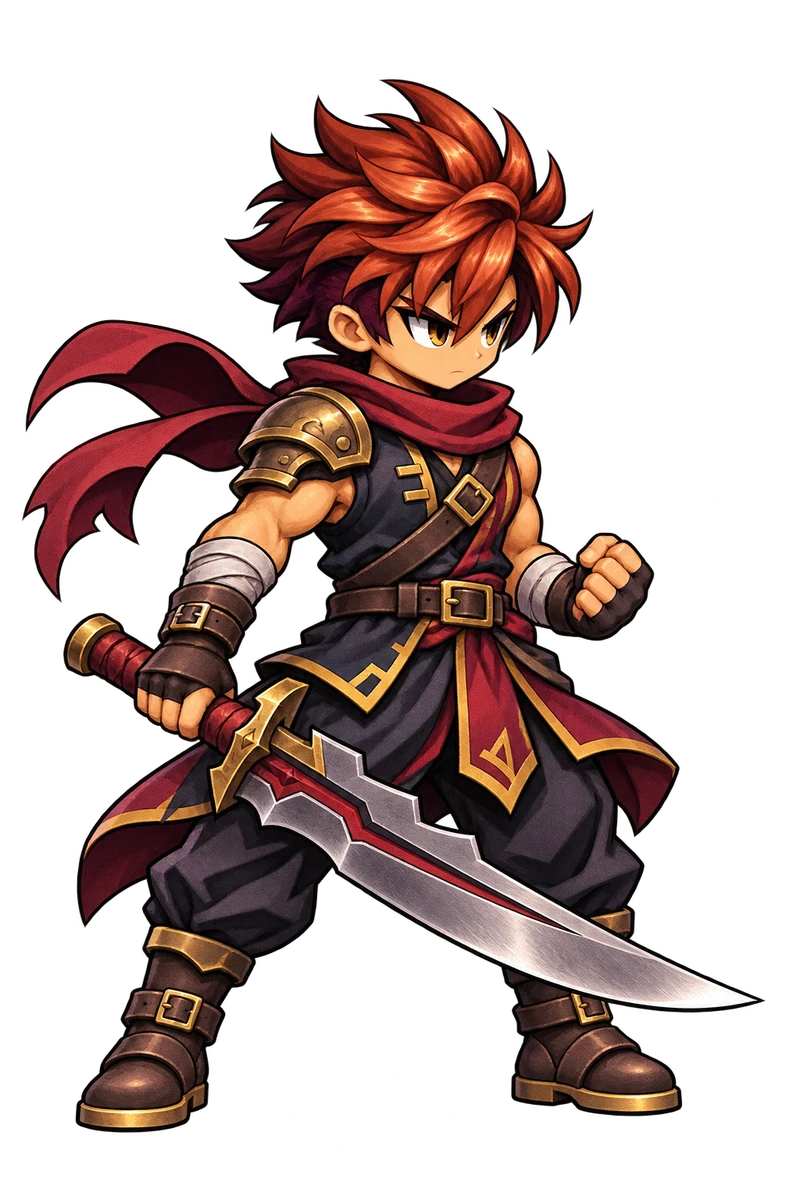
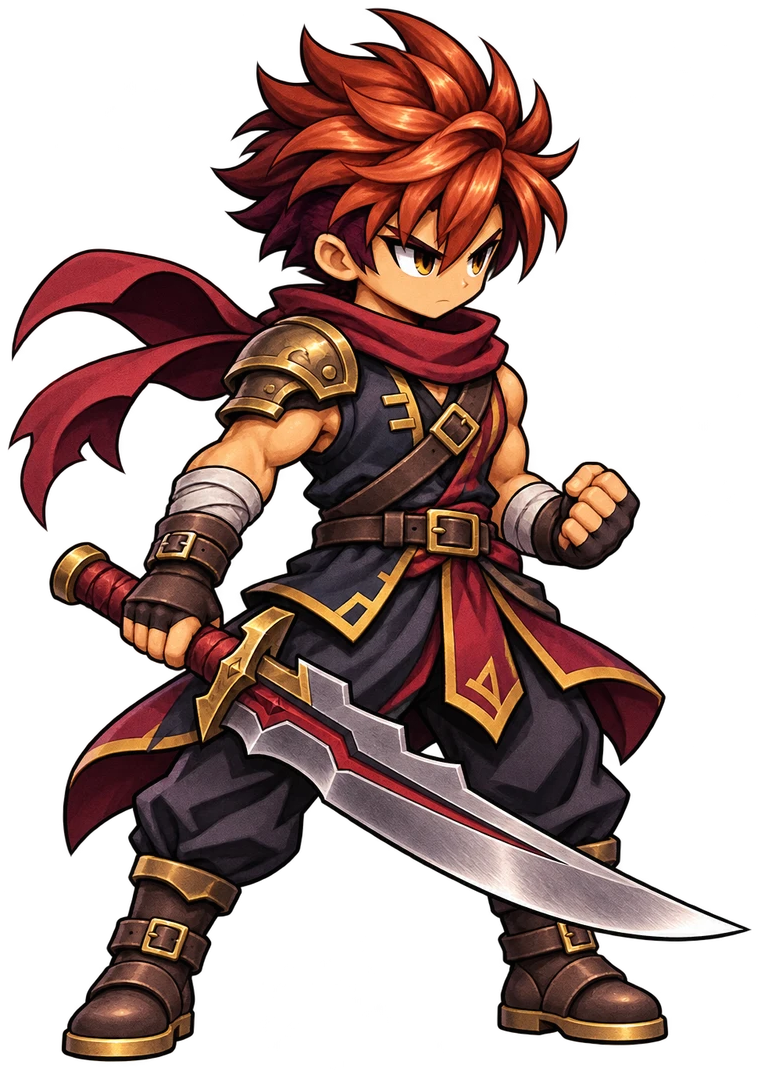
Ronin Carmesim: nomes originais e retrato maior; menus mostram 3 habilidades + ultimate
Claude-Session: https://claude.ai/code/session_016A3jQ5CZAnkWBa3KCHDBFj

diff --git a/js/combate_v3.js b/js/combate_v3.js
@@ -14,7 +14,7 @@ window.COMBAT_V3=!LEGACY;
 if(LEGACY)return;
 document.body.classList.add('v3');
 // reforço: o mesmo CSS também entra por aqui, para o layout nunca depender de um arquivo .css antigo em cache
-{const st=document.createElement('style');st.id='v3css';st.textContent="/* Combate v3: dash no lugar do soco, habilidades em meia-lua ao redor dele */\nbody.v3 #battle{--atk:72px;--skill-size:50px;--edge:72px}\nbody.v3 #battle .action-group #dodge,body.v3 #battle .action-group #defend,body.v3 #battle .control-tip{display:none!important}\nbody.v3 #battle .control-center{right:calc(var(--edge) + var(--atk)/2)!important;bottom:calc(max(12px,env(safe-area-inset-bottom)) + var(--atk)/2)!important;width:0!important;height:0!important;padding:0!important;background:none!important;border:0!important}\nbody.v3 #battle .equipped{display:block!important;position:absolute!important;left:0;top:0;width:0;height:0}\nbody.v3 #battle .equipped .skill{position:absolute!important;left:calc(var(--dx,0px) - var(--skill-size)/2)!important;top:calc(var(--dy,0px) - var(--skill-size)/2)!important;margin:0!important}\nbody.v3 #battle .equipped .skill[data-arc=\"3\"]{width:56px!important;height:56px!important;left:calc(var(--dx,0px) - 28px)!important;top:calc(var(--dy,0px) - 28px)!important;box-shadow:0 0 12px var(--c,#e8c787)}\nbody.v3 #battle .equipped .skill.v3-hidden{display:none!important}\nbody.v3 #battle .equipped .skill.v3-swap::after{content:\"TROCAR\";position:absolute;inset:auto 0 -2px;font-size:8px;font-weight:800;text-align:center;color:#fff;text-shadow:0 1px 3px #000}\nbody.v3 #battle .action-group #attack.v3-dash{position:relative;overflow:hidden}\nbody.v3 #battle #attack.v3-dash .v3-cd{position:absolute;inset:0;display:flex;align-items:center;justify-content:center;font-weight:800;font-size:15px;text-shadow:0 1px 4px #000;pointer-events:none}\nbody.v3 #battle #attack.v3-dash.cooling{filter:saturate(.5) brightness(.75)}\nbody.v3 #battle #attack.v3-dash .skill-art{position:absolute!important;inset:3px!important;width:auto!important;height:auto!important;display:block!important;border-radius:50%;background-size:cover!important;background-position:center!important}\nbody.v3 #battle #attack.v3-dash small{position:absolute;left:0;right:0;bottom:3px;z-index:2;text-shadow:0 1px 3px #000,0 0 4px #000}\nbody.v3 #battle #attack.v3-dash .v3-arrow{display:flex!important;align-items:center;justify-content:center;background:radial-gradient(circle,#3a4663,#1b2236)!important}\nbody.v3 #battle #attack.v3-dash .v3-arrow svg{width:50%;height:50%;color:#e8c787}\nbody.v3 #battle #arenaZoom{display:none!important}\n\n/* v3.1: habilidade 1 no centro (grande), dash pequeno no alto à esquerda, 2, 3 e ultimate em meia-lua */\nbody.v3 #battle .action-group{right:calc(var(--edge) + var(--atk)/2)!important;bottom:calc(max(12px,env(safe-area-inset-bottom)) + var(--atk)/2)!important;width:0!important;height:0!important;display:block!important;padding:0!important}\nbody.v3 #battle .action-group #attack.v3-dash{position:absolute!important;width:44px!important;height:44px!important;left:calc(var(--dx,0px) - 22px)!important;top:calc(var(--dy,0px) - 22px)!important;margin:0!important;order:0}\nbody.v3 #battle #attack.v3-dash small{font-size:7px!important;bottom:1px}\nbody.v3 #battle #attack.v3-dash .v3-cd{font-size:12px}\nbody.v3 #battle .equipped .skill[data-arc=\"0\"]{width:var(--atk)!important;height:var(--atk)!important;left:calc(var(--atk)/-2)!important;top:calc(var(--atk)/-2)!important}\n\n/* posição e tamanho personalizáveis (v3 editável) */\nbody.v3 #battle #equipped .skill{--s:var(--sz,var(--skill-size));width:var(--s)!important;height:var(--s)!important;left:calc(var(--dx,0px) - var(--s)/2)!important;top:calc(var(--dy,0px) - var(--s)/2)!important}\nbody.v3 #battle #equipped .skill[data-arc=\"0\"]{--s:var(--sz,var(--atk))}\nbody.v3 #battle #equipped .skill[data-arc=\"3\"]{--s:var(--sz,56px)}\nbody.v3 #battle .action-group #attack.v3-dash{--s:var(--sz,34px);width:var(--s)!important;height:var(--s)!important;left:calc(var(--dx,0px) - var(--s)/2)!important;top:calc(var(--dy,0px) - var(--s)/2)!important}\n\n/* anel de ki / Modo Poder (Goku) */\nbody.v3 #battle #equipped .skill .v3-ring{position:absolute;inset:-6px;border-radius:50%;pointer-events:none;background:conic-gradient(#62d6ff calc(var(--pw,0)*360deg),#ffffff22 0);-webkit-mask:radial-gradient(circle,transparent 63%,#000 65%);mask:radial-gradient(circle,transparent 63%,#000 65%)}\nbody.v3 #battle #equipped .skill .v3-ring.power{background:conic-gradient(#ffd34d calc(var(--pw,0)*360deg),#ffffff22 0);filter:drop-shadow(0 0 4px #ffd34d)}\nbody.v3 #battle #equipped.v3-power .skill{box-shadow:0 0 14px 3px #ffd34daa;border-color:#ffd34d}\nbody.v3 #battle #equipped .skill .v3-ring[hidden]{display:none}\n";document.head.appendChild(st)}
+{const st=document.createElement('style');st.id='v3css';st.textContent="/* Combate v3: dash no lugar do soco, habilidades em meia-lua ao redor dele */\nbody.v3 #battle{--atk:72px;--skill-size:50px;--edge:72px}\nbody.v3 #battle .action-group #dodge,body.v3 #battle .action-group #defend,body.v3 #battle .control-tip{display:none!important}\nbody.v3 #battle .control-center{right:calc(var(--edge) + var(--atk)/2)!important;bottom:calc(max(12px,env(safe-area-inset-bottom)) + var(--atk)/2)!important;width:0!important;height:0!important;padding:0!important;background:none!important;border:0!important}\nbody.v3 #battle .equipped{display:block!important;position:absolute!important;left:0;top:0;width:0;height:0}\nbody.v3 #battle .equipped .skill{position:absolute!important;left:calc(var(--dx,0px) - var(--skill-size)/2)!important;top:calc(var(--dy,0px) - var(--skill-size)/2)!important;margin:0!important}\nbody.v3 #battle .equipped .skill[data-arc=\"3\"]{width:56px!important;height:56px!important;left:calc(var(--dx,0px) - 28px)!important;top:calc(var(--dy,0px) - 28px)!important;box-shadow:0 0 12px var(--c,#e8c787)}\nbody.v3 #battle .equipped .skill.v3-hidden{display:none!important}\nbody.v3 #battle .equipped .skill.v3-swap::after{content:\"TROCAR\";position:absolute;inset:auto 0 -2px;font-size:8px;font-weight:800;text-align:center;color:#fff;text-shadow:0 1px 3px #000}\nbody.v3 #battle .action-group #attack.v3-dash{position:relative;overflow:hidden}\nbody.v3 #battle #attack.v3-dash .v3-cd{position:absolute;inset:0;display:flex;align-items:center;justify-content:center;font-weight:800;font-size:15px;text-shadow:0 1px 4px #000;pointer-events:none}\nbody.v3 #battle #attack.v3-dash.cooling{filter:saturate(.5) brightness(.75)}\nbody.v3 #battle #attack.v3-dash .skill-art{position:absolute!important;inset:3px!important;width:auto!important;height:auto!important;display:block!important;border-radius:50%;background-size:cover!important;background-position:center!important}\nbody.v3 #battle #attack.v3-dash small{position:absolute;left:0;right:0;bottom:3px;z-index:2;text-shadow:0 1px 3px #000,0 0 4px #000}\nbody.v3 #battle #attack.v3-dash .v3-arrow{display:flex!important;align-items:center;justify-content:center;background:radial-gradient(circle,#3a4663,#1b2236)!important}\nbody.v3 #battle #attack.v3-dash .v3-arrow svg{width:50%;height:50%;color:#e8c787}\nbody.v3 #battle #arenaZoom{display:none!important}\n\n/* v3.1: habilidade 1 no centro (grande), dash pequeno no alto à esquerda, 2, 3 e ultimate em meia-lua */\nbody.v3 #battle .action-group{right:calc(var(--edge) + var(--atk)/2)!important;bottom:calc(max(12px,env(safe-area-inset-bottom)) + var(--atk)/2)!important;width:0!important;height:0!important;display:block!important;padding:0!important}\nbody.v3 #battle .action-group #attack.v3-dash{position:absolute!important;width:44px!important;height:44px!important;left:calc(var(--dx,0px) - 22px)!important;top:calc(var(--dy,0px) - 22px)!important;margin:0!important;order:0}\nbody.v3 #battle #attack.v3-dash small{font-size:7px!important;bottom:1px}\nbody.v3 #battle #attack.v3-dash .v3-cd{font-size:12px}\nbody.v3 #battle .equipped .skill[data-arc=\"0\"]{width:var(--atk)!important;height:var(--atk)!important;left:calc(var(--atk)/-2)!important;top:calc(var(--atk)/-2)!important}\n\n/* posição e tamanho personalizáveis (v3 editável) */\nbody.v3 #battle #equipped .skill{--s:var(--sz,var(--skill-size));width:var(--s)!important;height:var(--s)!important;left:calc(var(--dx,0px) - var(--s)/2)!important;top:calc(var(--dy,0px) - var(--s)/2)!important}\nbody.v3 #battle #equipped .skill[data-arc=\"0\"]{--s:var(--sz,var(--atk))}\nbody.v3 #battle #equipped .skill[data-arc=\"3\"]{--s:var(--sz,56px)}\nbody.v3 #battle .action-group #attack.v3-dash{--s:var(--sz,34px);width:var(--s)!important;height:var(--s)!important;left:calc(var(--dx,0px) - var(--s)/2)!important;top:calc(var(--dy,0px) - var(--s)/2)!important}\n\n/* anel de ki / Modo Poder (Goku) */\nbody.v3 #battle #equipped .skill .v3-ring{position:absolute;inset:-6px;border-radius:50%;pointer-events:none;background:conic-gradient(#62d6ff calc(var(--pw,0)*360deg),#ffffff22 0);-webkit-mask:radial-gradient(circle,transparent 63%,#000 65%);mask:radial-gradient(circle,transparent 63%,#000 65%)}\nbody.v3 #battle #equipped .skill .v3-ring.power{background:conic-gradient(#ffd34d calc(var(--pw,0)*360deg),#ffffff22 0);filter:drop-shadow(0 0 4px #ffd34d)}\nbody.v3 #battle #equipped.v3-power .skill{box-shadow:0 0 14px 3px #ffd34daa;border-color:#ffd34d}\nbody.v3 #battle #equipped .skill .v3-ring[hidden]{display:none}\n\n/* Ronin Carmesim: retrato um pouco maior para ficar na proporção do Guerreiro Astral e do Ninja das Brumas */\n.hero-card[data-hero-open=\"2\"] .hero-card-art img{transform:scale(1.12);transform-origin:50% 100%}\n#heroDetail .hero-stage img[alt^=\"Ronin\"]{transform:scale(1.08);transform-origin:50% 100%}\n.simple-champion-art img[alt^=\"Ronin\"],.simple-current img[alt^=\"Ronin\"]{transform:scale(1.1);transform-origin:50% 100%}\n";document.head.appendChild(st)}
 
 /* ------------------------------ definição dos kits ------------------------------ */
 // s = posições do kit (0..5) usadas como habilidade 1, 2 e 3 (a 1ª é a "principal", de recarga curta); a ultimate é sempre a posição 5.
@@ -22,7 +22,7 @@ document.body.classList.add('v3');
 const V2={
  0:{s:[0,1,2],dash:3},           // Goku: Rajada de Ki · Combo Relâmpago · Onda Concentrada · dash = Passo Instantâneo
  1:{s:[0,1,4],dash:'kakashi'},   // Kakashi: Lâmina Rápida (corte duplo) · Clone de Fumaça (toque de novo = troca) · Olho Copiador
- 2:{s:[0,2,4],dash:3},           // Ichigo: Corte Rápido · Getsuga Tenshō · Bankai · dash = Shunpo
+ 2:{s:[0,2,4],dash:3},           // Ronin Carmesim: Corte Rápido · Onda Lunar · Despertar Carmesim · dash = Passo Carmesim
  3:{s:[0,1,2],dash:3},           // Rengoku: Corte Flamejante · Tigre de Fogo · Pilar Ardente · dash = Investida Solar
  4:{s:[0,1,2],dash:'blink'},    // Gojo: Repulsão · Atração · Esfera Vermelha · dash = Teleporte livre (a Barreira vira passiva)
  5:{s:[1,0,2],dash:3},           // Gon: Pedra Rápida · Soco Carregado · Vara Giratória · dash = Salto Selvagem

diff --git a/index.html b/index.html
@@ -1,7 +1,7 @@
 <!DOCTYPE html><html lang="pt-BR"><head><meta charset="utf-8"><meta name="viewport" content="width=device-width,initial-scale=1,viewport-fit=cover,user-scalable=no"><meta name="theme-color" content="#101c1b"><title>Eldoria · Arena dos Campeões</title>
 <link rel="stylesheet" href="css/estilo_principal.css">
 <link rel="stylesheet" href="css/estilo_menus.css">
-<link rel="stylesheet" href="css/combate_horizontal.css?v=9"><link rel="stylesheet" href="css/interface_horizontal.css?v=10"><link rel="stylesheet" href="css/lobby_real.css?v=12"><link rel="stylesheet" href="css/menus_simples.css?v=24"><link rel="stylesheet" href="css/layout_fixo.css?v=28"><link rel="stylesheet" href="css/acoes_universais.css?v=31"><link rel="stylesheet" href="css/cacada_dia.css?v=11"><link rel="stylesheet" href="css/controles_v2.css?v=12"><link rel="stylesheet" href="css/menu_v2.css?v=12"><link rel="stylesheet" href="css/ui_menus.css?v=9"><link rel="stylesheet" href="css/retencao.css?v=3"><link rel="stylesheet" href="css/telas_unicas.css?v=3"><link rel="stylesheet" href="css/fase_arcade.css?v=3"><link rel="stylesheet" href="css/sobrevivencia.css?v=2"><link rel="stylesheet" href="css/ichigo_v27.css?v=27"><link rel="stylesheet" href="css/combate_v3.css?v=7"><link rel="stylesheet" href="css/hud_v3.css?v=7"></head><body>
+<link rel="stylesheet" href="css/combate_horizontal.css?v=9"><link rel="stylesheet" href="css/interface_horizontal.css?v=10"><link rel="stylesheet" href="css/lobby_real.css?v=12"><link rel="stylesheet" href="css/menus_simples.css?v=24"><link rel="stylesheet" href="css/layout_fixo.css?v=28"><link rel="stylesheet" href="css/acoes_universais.css?v=31"><link rel="stylesheet" href="css/cacada_dia.css?v=11"><link rel="stylesheet" href="css/controles_v2.css?v=12"><link rel="stylesheet" href="css/menu_v2.css?v=12"><link rel="stylesheet" href="css/ui_menus.css?v=9"><link rel="stylesheet" href="css/retencao.css?v=3"><link rel="stylesheet" href="css/telas_unicas.css?v=3"><link rel="stylesheet" href="css/fase_arcade.css?v=3"><link rel="stylesheet" href="css/sobrevivencia.css?v=2"><link rel="stylesheet" href="css/ichigo_v27.css?v=27"><link rel="stylesheet" href="css/combate_v3.css?v=8"><link rel="stylesheet" href="css/hud_v3.css?v=7"></head><body>
 <section id="profileScreen" hidden><form class="profile-box" id="profileForm"><div class="eyebrow">ELDORIA · ARENA DOS CAMPEÕES</div><h1>Desperte seu Eco.</h1><p>Escolha como será conhecido na arena. Seu símbolo e sua skin acompanham você na arena.</p><label class="profile-label" for="profileName">NOME DO LUTADOR · 2 A 16 CARACTERES</label><input class="profile-name" id="profileName" minlength="2" maxlength="16" required autocomplete="nickname" placeholder="Seu nome na arena"><span class="profile-label">ESCOLHA SEU SÍMBOLO</span><div class="avatar-grid" id="avatarGrid"></div><section class="skin-section" aria-label="Escolher skin"><span class="profile-label">ESCOLHA SUA SKIN · SEIS VISUAIS ORIGINAIS</span><div class="skin-grid" id="skinGrid"></div><div class="skin-preview-panel"><canvas id="skinPreview" width="240" height="174" aria-label="Prévia animada da skin selecionada"></canvas><div><div class="eyebrow">PRÉVIA NA ARENA</div><h2 id="skinPreviewName"></h2><p id="skinPreviewDesc"></p><div class="skin-preview-controls" id="skinPreviewControls" aria-label="Testar animação"><button type="button" class="ghost" data-preview="idle">Parado</button><button type="button" class="ghost" data-preview="walk">Andar</button><button type="button" class="ghost" data-preview="punch">Soco</button><button type="button" class="ghost" data-preview="guard">Defesa</button><button type="button" class="ghost" data-preview="dodge">Esquiva</button><button type="button" class="ghost" data-preview="echo">Ativar Eco</button></div></div></div><p class="cosmetic-note">Todas as skins são gratuitas e apenas visuais. HP, dano, velocidade e defesa são iguais.</p><div id="skinAssetStatus" class="skin-asset-status" role="status"></div></section><button type="submit" class="gold" style="width:100%">Salvar visual · entrar em Eldoria ↗</button><button type="button" class="ghost" id="cancelProfile" hidden style="width:100%;margin-top:10px">Cancelar</button><div class="save-warning" id="profileError" role="status"></div></form></section>
 <section id="homeScreen" class="app-screen" hidden></section><section id="trainingScreen" class="app-screen" hidden></section><section id="leagueScreen" class="app-screen" hidden></section>
 <section id="shopScreen" class="app-screen" hidden></section>
@@ -12,4 +12,4 @@
 <section id="modeScreen" class="app-screen" hidden></section><div id="shopConfirm" hidden></div>
 <div id="integrationLoading" role="status" aria-live="polite"><span class="eyebrow">ELDORIA</span><h2>Iniciando Arena dos Campeões…</h2><p id="bootStage">Preparando menus e personagens.</p></div>
 <script src="js/diagnostico.js"></script>
-<script src="js/jogo.js?v=32"></script><script src="js/identidades_campeoes.js?v=10"></script><script src="js/seis_identidades.js?v=18"></script><script src="js/impactos_futuros.js?v=19"></script><script src="js/arena_horizontal.js?v=16"></script><script src="js/lobby_real.js?v=9"></script><script src="js/menus_simples.js?v=20"></script><script src="js/pixel_sprite.js?v=8"></script><script src="js/combate_identidades.js?v=26"></script><script src="js/combate_seis.js?v=27"></script><script src="js/arte_identidades.js?v=28"></script><script src="js/arte_seis.js?v=27"></script><script src="js/interface_identidades.js?v=10"></script><script src="js/interface_seis.js?v=10"></script><script src="js/arena_arte.js?v=15"></script><script src="js/layout_fixo.js?v=19"></script><script src="js/ninja_v22.js?v=26"></script><script src="js/corpos_v24.js?v=26"></script><script src="js/ninja_v25.js?v=26"></script><script src="js/acoes_universais.js?v=26"></script><script src="js/ichigo_v27.js?v=27"></script><script src="js/recuperar_artes.js?v=20"></script><script src="js/ui_escala.js?v=4"></script><script src="js/chefes_base.js?v=1"></script><script src="js/chefes_looks.js?v=1"></script><script src="js/vilao_zorvath.js?v=2"></script><script src="js/cacada_dia.js?v=11"></script><script src="js/chefes_motor.js?v=3"></script><script src="js/chefes_lote.js?v=1"></script><script src="js/menu_v2.js?v=3"></script><script src="js/retencao.js?v=3"></script><script src="js/copia_chefe.js?v=3"></script><script src="js/fase_arcade.js?v=10"></script><script src="js/sobrevivencia.js?v=14"></script><script src="js/economia.js?v=2"></script><script src="js/combate_v3.js?v=9"></script><script src="js/hud_v3.js?v=4"></script><script src="js/combate_v3b.js?v=2"></script><script src="js/iniciar.js"></script><script src="js/tela_cheia.js?v=17"></script></body></html>
+<script src="js/jogo.js?v=33"></script><script src="js/identidades_campeoes.js?v=10"></script><script src="js/seis_identidades.js?v=18"></script><script src="js/impactos_futuros.js?v=19"></script><script src="js/arena_horizontal.js?v=16"></script><script src="js/lobby_real.js?v=9"></script><script src="js/menus_simples.js?v=20"></script><script src="js/pixel_sprite.js?v=8"></script><script src="js/combate_identidades.js?v=26"></script><script src="js/combate_seis.js?v=27"></script><script src="js/arte_identidades.js?v=28"></script><script src="js/arte_seis.js?v=27"></script><script src="js/interface_identidades.js?v=10"></script><script src="js/interface_seis.js?v=10"></script><script src="js/arena_arte.js?v=15"></script><script src="js/layout_fixo.js?v=19"></script><script src="js/ninja_v22.js?v=26"></script><script src="js/corpos_v24.js?v=26"></script><script src="js/ninja_v25.js?v=26"></script><script src="js/acoes_universais.js?v=26"></script><script src="js/ichigo_v27.js?v=28"></script><script src="js/recuperar_artes.js?v=20"></script><script src="js/ui_escala.js?v=4"></script><script src="js/chefes_base.js?v=1"></script><script src="js/chefes_looks.js?v=1"></script><script src="js/vilao_zorvath.js?v=2"></script><script src="js/cacada_dia.js?v=11"></script><script src="js/chefes_motor.js?v=3"></script><script src="js/chefes_lote.js?v=1"></script><script src="js/menu_v2.js?v=3"></script><script src="js/retencao.js?v=3"></script><script src="js/copia_chefe.js?v=3"></script><script src="js/fase_arcade.js?v=10"></script><script src="js/sobrevivencia.js?v=14"></script><script src="js/economia.js?v=2"></script><script src="js/combate_v3.js?v=10"></script><script src="js/hud_v3.js?v=4"></script><script src="js/combate_v3b.js?v=2"></script><script src="js/menus_v3.js?v=2"></script><script src="js/iniciar.js"></script><script src="js/tela_cheia.js?v=17"></script></body></html>

diff --git a/js/ichigo_v27.js b/js/ichigo_v27.js
@@ -2,16 +2,16 @@
 const ICHIGO27_BODY=rwImage('assets/ichigo_v27/body.webp');
 const ichigo27Kit=[
  ['Corte Rápido','Avança e corta por 55 de dano. Ao acertar, use 1 novamente em até 0,65s para um corte ascendente de 40. Um retorno por uso; recarga mantida.',4,110,.16,.48],
- ['Quebra de Guarda','Prepara um corte vertical de 95 de dano. No contato frontal retira 45 de Stamina da guarda. Preparação e recuperação deixam espaço para esquivar.',7,115,.48,1.05],
- ['Getsuga Tenshō','Segure 3 por até 1,4s. Solte uma meia-lua de 85 a 165 de dano e alcance de 360 a 480. Custa 25 de Pressão; a carga deixa você parado.',8,480,.2,.85],
- ['Shunpo','Avança 180 na direção escolhida com breve invulnerabilidade. Cancela a recuperação dos dois primeiros cortes. Paredes bloqueiam o avanço.',6,180,.03,.3],
- ['Bankai','Custa 40 de Pressão. Por 7s: +20% de dano, +15% de velocidade, cortes mais rápidos e Getsuga negro com bordas vermelhas.',20,0,.32,.7],
- ['Getsuga Final','Exige 70 de Pressão e consome a barra. Prepara uma meia-lua negra de 210 + 1,6 por ponto de dano. Atravessa lutadores uma vez por alvo; paredes bloqueiam. Recuperação longa.',28,560,.75,1.65]
+ ['Golpe Rompente','Prepara um corte vertical de 95 de dano. No contato frontal retira 45 de Stamina da guarda. Preparação e recuperação deixam espaço para esquivar.',7,115,.48,1.05],
+ ['Onda Lunar','Segure 3 por até 1,4s. Solte uma meia-lua de 85 a 165 de dano e alcance de 360 a 480. Custa 25 de Pressão; a carga deixa você parado.',8,480,.2,.85],
+ ['Passo Carmesim','Avança 180 na direção escolhida com breve invulnerabilidade. Cancela a recuperação dos dois primeiros cortes. Paredes bloqueiam o avanço.',6,180,.03,.3],
+ ['Despertar Carmesim','Custa 40 de Pressão. Por 7s: +20% de dano, +15% de velocidade, cortes mais rápidos e onda lunar negra com bordas vermelhas.',20,0,.32,.7],
+ ['Eclipse Carmesim','Exige 70 de Pressão e consome a barra. Prepara uma meia-lua negra de 210 + 1,6 por ponto de dano. Atravessa lutadores uma vez por alvo; paredes bloqueiam. Recuperação longa.',28,560,.75,1.65]
 ];
 CHAMPIONS[2].kit.forEach((id,i)=>{const [name,desc,cd,range,release,duration]=ichigo27Kit[i];Object.assign(skills[id],{name,desc,cd,range,release,duration});});
 skills[CHAMPIONS[2].kit[2]].holdMax=1.4;
 CHAMPIONS[2].ult=ichigo27Kit[5][0];
-CHAMPIONS[2].summary='Cortes geram Pressão. Encadeie um segundo golpe, quebre a guarda e carregue a onda espiritual. Bankai acelera os cortes e desperta a lua carmesim.';
+CHAMPIONS[2].summary='Cortes geram Pressão. Encadeie um segundo golpe, use o golpe rompente e carregue a onda espiritual. O Despertar Carmesim acelera os cortes e desperta a lua carmesim.';
 identityKit(2).summary=CHAMPIONS[2].summary;
 const ichigo27Icon=icon;icon=function(id){const s=skills[id];return s?.champion===2?`<span class="skill-art reforged-icon" aria-hidden="true" style="background-image:url('assets/ichigo_v27/icon-${s.slot}.webp')"></span>`:ichigo27Icon(id);};
 function ichigo27Follow(a,id){return a?.skin===2&&id===a.kit[0]&&state==='fight'&&a.hp>0&&!a.guard&&a.root<=0&&a.dodgeTime<=0&&(reworkState(a).ichigoFollowUntil||0)>clock&&(!a.rwCast||a.rwCast.slot===0&&a.rwCast.released);}

diff --git a/js/jogo.js b/js/jogo.js
@@ -1477,7 +1477,7 @@ const IMPORTED_CHAMPION_PORTRAITS={"0":"assets/portraits/campeao_01.webp","1":"a
 const CHAMPIONS=[
  {id:0,name:'Guerreiro Astral',ref:'Goku',title:'O coração das estrelas',weapon:'Punhos e energia',color:'#78dbed',kit:[29,0,43,5,41,28],style:'Pressão e rajadas de energia',ult:'Esfera do Universo',summary:'Concentra energia nas mãos, luta com os punhos e reúne uma esfera colossal.'},
  {id:1,name:'Ninja das Brumas',ref:'Kakashi',title:'O olho que atravessa o espaço',weapon:'Kunai e ninjutsu',color:'#a4caff',kit:[31,27,2,37,35,48],style:'Mobilidade, clones e distorção',ult:'Kamui · Fenda Dupla',summary:'Alterna kunais, selos, clones e relâmpagos. Seu olho abre uma fenda dimensional.'},
- {id:2,name:'Ronin Carmesim',ref:'Ichigo',title:'A última lâmina',weapon:'Katana negra',color:'#e8a2a5',kit:[18,3,10,14,9,1],style:'Cortes, avanço e pressão',ult:'Mugetsu · Lua sem Luz',summary:'Uma katana longa conduz ondas de energia e cortes com todo o peso do corpo.'},
+ {id:2,name:'Ronin Carmesim',ref:'Espadachim espiritual',title:'A última lâmina',weapon:'Katana negra',color:'#e8a2a5',kit:[18,3,10,14,9,1],style:'Cortes, avanço e pressão',ult:'Eclipse Carmesim',summary:'Uma katana longa conduz ondas de energia e cortes com todo o peso do corpo.'},
  {id:3,name:'Guardião Solar',ref:'Rengoku',title:'O dragão das chamas',weapon:'Katana flamejante',color:'#ffbf70',kit:[24,45,17,40,36,49],style:'Combos de espada e fogo',ult:'Nona Forma · Dragão Solar',summary:'Posturas de espada, giros flamejantes e uma investida final em forma de dragão.'},
  {id:4,name:'Lutador do Eclipse',ref:'Gojo',title:'Além do infinito',weapon:'Técnicas espaciais',color:'#c4a5ff',kit:[34,4,22,8,15,7],style:'Atração, repulsão e controle',ult:'Vazio Roxo · 200%',summary:'Manipula o espaço com gestos precisos e une dois núcleos em um disparo devastador.'},
  {id:5,name:'Caçador Espectral',ref:'Gon',title:'A promessa definitiva',weapon:'Punhos e aura',color:'#b9e78a',kit:[11,20,33,39,19,46],style:'Carga, perseguição e impacto',ult:'Juramento · Potência Absoluta',summary:'Carrega a aura no punho, alterna pedra, tesoura e papel e libera sua forma de potência máxima.'},
@@ -1504,7 +1504,7 @@ const CHAMPION_TECHNIQUES=[
  [10,'Passo Cortante','Avança 210 unidades com 60 dano. Pilares interrompem o avanço.','thrust'],
  [14,'Lâmina Interior','Por 5s, cada básico gera um segundo golpe de 18 dano após 0,35s.','awaken'],
  [9,'Máscara Carmesim','Reduz dano recebido em 55% por 4s e movimento em 20%. Ao terminar: 35 dano + 40% do dano absorvido.','mask'],
- [1,'Mugetsu · Lua sem Luz','Ergue a katana por 1s e libera um corte negro de 360 dano em linha de 520 unidades.','moon'],
+ [1,'Eclipse Carmesim','Ergue a katana por 1s e libera um corte negro de 360 dano em linha de 520 unidades.','moon'],
  [24,'Primeira Chama','Disparo flamejante de 60 dano. Queima por 3s: 5 dano a cada 0,5s.','flameDraw'],
  [45,'Ascensão Ardente','Dois cortes de 30 dano. O segundo empurra o inimigo.','rising'],
  [17,'Mar de Chamas','Quatro explosões em linha, com 28 dano cada, começando após 0,8s.','flameSweep'],

diff --git a/js/menus_v3.js b/js/menus_v3.js
@@ -1,0 +1,48 @@
+'use strict';
+/* Menus do combate v3: mostram só 3 habilidades + ultimate (o dash vem à parte), como no jogo. */
+(function(){
+if(!window.COMBAT_V3||!window.V3API)return;
+const V2=V3API.V2;
+const slotsOf=id=>{const v=V2[id];return v?[...v.s,5]:null};
+const champOf=kit=>CHAMPIONS.find(c=>kit?.length===6&&c.kit.every((k,i)=>kit[i]===k));
+
+/* prévia de kit (cartas de campeão, builds salvas) */
+const prevPreview=kitPreview;
+kitPreview=function(kit){
+ const c=champOf(kit),sl=c&&slotsOf(c.id);if(!sl)return prevPreview(kit);
+ return `<div class="build-icons">${sl.map(i=>`<span title="${skills[kit[i]].name}" aria-label="${skills[kit[i]].name}">${icon(kit[i])}</span>`).join('')}</div>`;
+};
+
+/* início: ícones do campeão selecionado */
+const prevBuild=renderLobbyBuild;
+renderLobbyBuild=function(){
+ prevBuild();
+ const c=currentChampion(),sl=c&&slotsOf(c.id),box=document.querySelector('#lobbyBuild .lobby-build-icons');
+ if(!sl||!box)return;
+ [...box.children].forEach((el,i)=>{if(!sl.includes(i))el.remove()});
+ box.setAttribute('aria-label','Ver as habilidades');
+ const foot=document.querySelector('#lobbyBuild .lobby-build-foot>span');
+ if(foot&&/técnicas/.test(foot.textContent))foot.textContent='3 técnicas + 1 ultimate + dash · HP ≤ 20%';
+};
+
+/* detalhe do campeão */
+const prevDetails=openChampionDetails;
+openChampionDetails=function(id){
+ prevDetails(id);
+ const el=document.getElementById('heroDetail'),c=CHAMPIONS[Number(id)],sl=c&&slotsOf(c.id);
+ if(!el||!sl)return;
+ const kit=el.querySelector('.hero-kit');if(!kit)return;
+ kit.setAttribute('aria-label','Três habilidades e ultimate');
+ const btns=[...kit.querySelectorAll('[data-hero-skill]')];
+ btns.forEach(b=>{const i=+b.dataset.heroSkill;if(!sl.includes(i)){b.remove();return}const lab=b.querySelector('small');if(lab)lab.textContent=i===5?'ULT':String(sl.indexOf(i)+1)});
+ sl.forEach(i=>{const b=kit.querySelector(`[data-hero-skill="${i}"]`);if(b)kit.appendChild(b)});   // ordem de uso: 1, 2, 3, ULT
+ const first=kit.querySelector('[data-hero-skill]');
+ if(first){
+  kit.querySelectorAll('.active').forEach(b=>{b.classList.remove('active');b.setAttribute('aria-pressed','false')});
+  first.classList.add('active');first.setAttribute('aria-pressed','true');
+  try{detailSkill=+first.dataset.heroSkill;const t=document.getElementById('heroSkillCopy');if(t)t.innerHTML=detailSkillText(c,detailSkill)}catch{}
+ }
+ const stat=[...el.querySelectorAll('.hero-stat')].find(s=>/HABILIDADES/.test(s.textContent));
+ if(stat){const b=stat.querySelector('b');if(b)b.innerHTML='3 <small>+ ULT</small>'}
+};
+})();

diff --git a/css/combate_v3.css b/css/combate_v3.css
@@ -34,3 +34,8 @@ body.v3 #battle #equipped .skill .v3-ring{position:absolute;inset:-6px;border-ra
 body.v3 #battle #equipped .skill .v3-ring.power{background:conic-gradient(#ffd34d calc(var(--pw,0)*360deg),#ffffff22 0);filter:drop-shadow(0 0 4px #ffd34d)}
 body.v3 #battle #equipped.v3-power .skill{box-shadow:0 0 14px 3px #ffd34daa;border-color:#ffd34d}
 body.v3 #battle #equipped .skill .v3-ring[hidden]{display:none}
+
+/* Ronin Carmesim: retrato um pouco maior para ficar na proporção do Guerreiro Astral e do Ninja das Brumas */
+.hero-card[data-hero-open="2"] .hero-card-art img{transform:scale(1.12);transform-origin:50% 100%}
+#heroDetail .hero-stage img[alt^="Ronin"]{transform:scale(1.08);transform-origin:50% 100%}
+.simple-champion-art img[alt^="Ronin"],.simple-current img[alt^="Ronin"]{transform:scale(1.1);transform-origin:50% 100%}
